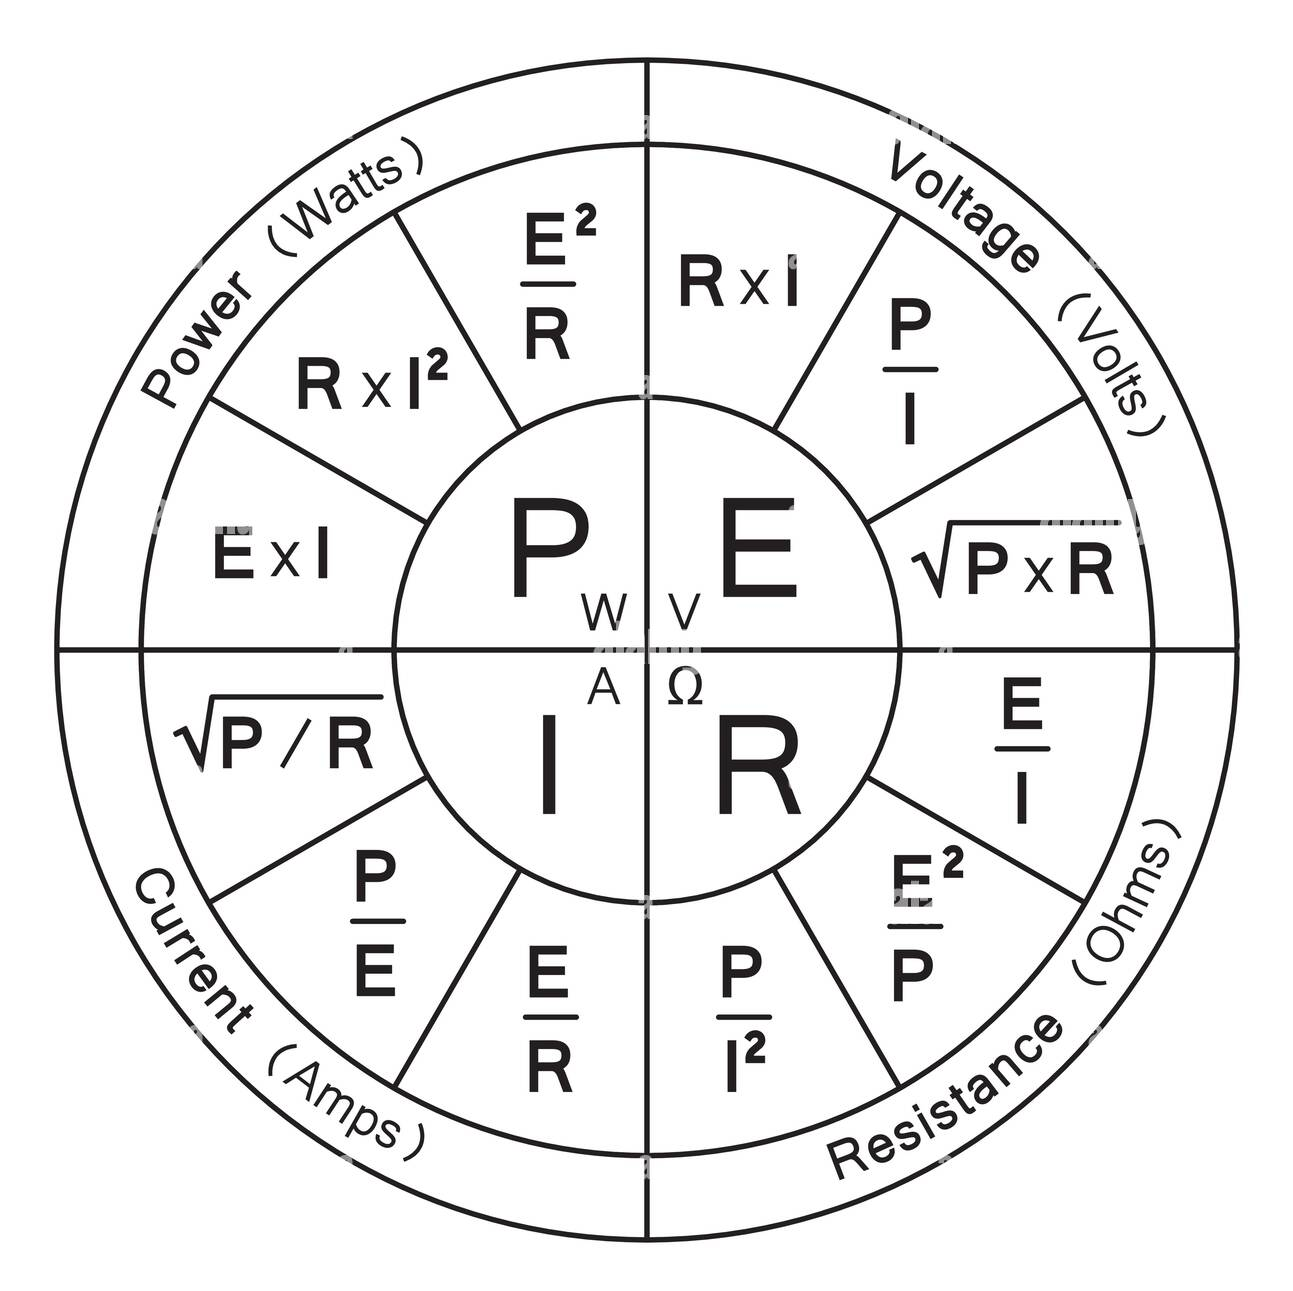
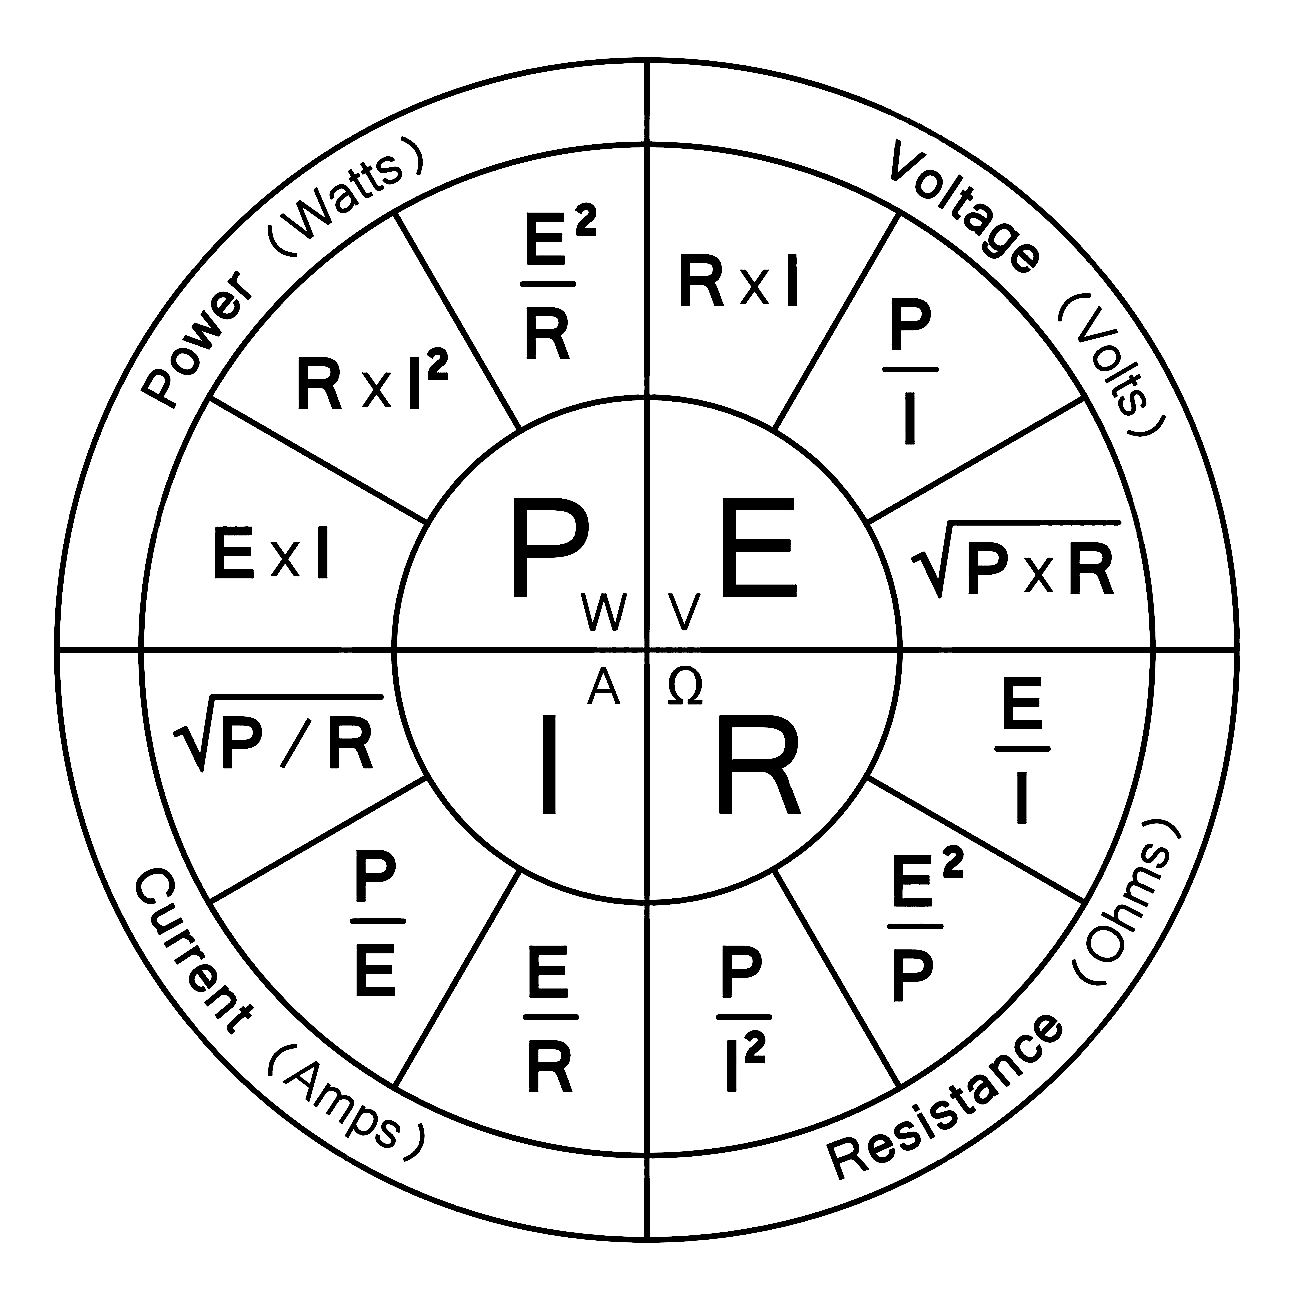
feat: add mili-units

diff --git a/dbconvert.js b/dbconvert.js
@@ -54,6 +54,66 @@ function updateLastEdited(fieldName) {
     }
 }
 
+function getBestUnit(value, field) {
+    // If value is 0, use base unit
+    if (value === 0) {
+        switch (field) {
+            case 'voltage': return 'V';
+            case 'current': return 'A';
+            case 'resistance': return 'Ω';
+            case 'power': return 'W';
+        }
+    }
+    
+    // For values >= 1000 in milli units, use base unit
+    if (Math.abs(value) >= 1000) {
+        switch (field) {
+            case 'voltage': return 'V';
+            case 'current': return 'A';
+            case 'resistance': return 'Ω';
+            case 'power': return 'W';
+        }
+    }
+    
+    // For values < 1 in base units, use milli unit
+    if (Math.abs(value) < 1) {
+        switch (field) {
+            case 'voltage': return 'mV';
+            case 'current': return 'mA';
+            case 'resistance': return 'mΩ';
+            case 'power': return 'mW';
+        }
+    }
+    
+    // For values between 1 and 1000, use base unit
+    switch (field) {
+        case 'voltage': return 'V';
+        case 'current': return 'A';
+        case 'resistance': return 'Ω';
+        case 'power': return 'W';
+    }
+}
+
+function updateFieldWithBestUnit(f, field, value) {
+    const newUnit = getBestUnit(value, field);
+    if (newUnit) {
+        const button = f[field].nextElementSibling;
+        const displayValue = newUnit.startsWith('m') ? value * 1000 : value / 1000;
+        f[field].value = pretty(displayValue);
+        button.textContent = newUnit;
+        
+        // Update the unit state
+        switch (field) {
+            case 'voltage': voltageUnit = newUnit; break;
+            case 'current': currentUnit = newUnit; break;
+            case 'resistance': resistanceUnit = newUnit; break;
+            case 'power': powerUnit = newUnit; break;
+        }
+    } else {
+        f[field].value = pretty(value);
+    }
+}
+
 function calculateFromLastEdited(f) {
     if (lastEditedFields.length < 2) return;
 
@@ -74,54 +134,79 @@ function calculateFromLastEdited(f) {
     if (field2 === 'resistance' && resistanceUnit === 'mΩ') val2 = val2 / 1000;
     if (field2 === 'power' && powerUnit === 'mW') val2 = val2 / 1000;
 
+    let result1, result2;
     switch (field1 + field2) {
         case 'voltagecurrent':
-            f.resistance.value = pretty(val1 / val2);
-            f.power.value = pretty(val1 * val2);
+            result1 = val1 / val2;  // resistance
+            result2 = val1 * val2;  // power
+            updateFieldWithBestUnit(f, 'resistance', result1);
+            updateFieldWithBestUnit(f, 'power', result2);
             break;
         case 'currentvoltage':
-            f.resistance.value = pretty(val2 / val1);
-            f.power.value = pretty(val1 * val2);
+            result1 = val2 / val1;  // resistance
+            result2 = val1 * val2;  // power
+            updateFieldWithBestUnit(f, 'resistance', result1);
+            updateFieldWithBestUnit(f, 'power', result2);
             break;
         case 'voltageresistance':
-            f.current.value = pretty(val1 / val2);
-            f.power.value = pretty((val1 * val1) / val2);
+            result1 = val1 / val2;  // current
+            result2 = (val1 * val1) / val2;  // power
+            updateFieldWithBestUnit(f, 'current', result1);
+            updateFieldWithBestUnit(f, 'power', result2);
             break;
         case 'resistancevoltage':
-            f.current.value = pretty(val2 / val1);
-            f.power.value = pretty((val2 * val2) / val1);
+            result1 = val2 / val1;  // current
+            result2 = (val2 * val2) / val1;  // power
+            updateFieldWithBestUnit(f, 'current', result1);
+            updateFieldWithBestUnit(f, 'power', result2);
             break;
         case 'voltagepower':
-            f.current.value = pretty(val2 / val1);
-            f.resistance.value = pretty((val1 * val1) / val2);
+            result1 = val2 / val1;  // current
+            result2 = (val1 * val1) / val2;  // resistance
+            updateFieldWithBestUnit(f, 'current', result1);
+            updateFieldWithBestUnit(f, 'resistance', result2);
             break;
         case 'powervoltage':
-            f.current.value = pretty(val1 / val2);
-            f.resistance.value = pretty((val2 * val2) / val1);
+            result1 = val1 / val2;  // current
+            result2 = (val2 * val2) / val1;  // resistance
+            updateFieldWithBestUnit(f, 'current', result1);
+            updateFieldWithBestUnit(f, 'resistance', result2);
             break;
         case 'currentresistance':
-            f.voltage.value = pretty(val1 * val2);
-            f.power.value = pretty(val1 * val1 * val2);
+            result1 = val1 * val2;  // voltage
+            result2 = val1 * val1 * val2;  // power
+            updateFieldWithBestUnit(f, 'voltage', result1);
+            updateFieldWithBestUnit(f, 'power', result2);
             break;
         case 'resistancecurrent':
-            f.voltage.value = pretty(val2 * val1);
-            f.power.value = pretty(val2 * val2 * val1);
+            result1 = val2 * val1;  // voltage
+            result2 = val2 * val2 * val1;  // power
+            updateFieldWithBestUnit(f, 'voltage', result1);
+            updateFieldWithBestUnit(f, 'power', result2);
             break;
         case 'currentpower':
-            f.voltage.value = pretty(val2 / val1);
-            f.resistance.value = pretty(val2 / (val1 * val1));
+            result1 = val2 / val1;  // voltage
+            result2 = val2 / (val1 * val1);  // resistance
+            updateFieldWithBestUnit(f, 'voltage', result1);
+            updateFieldWithBestUnit(f, 'resistance', result2);
             break;
         case 'powercurrent':
-            f.voltage.value = pretty(val1 / val2);
-            f.resistance.value = pretty(val1 / (val2 * val2));
+            result1 = val1 / val2;  // voltage
+            result2 = val1 / (val2 * val2);  // resistance
+            updateFieldWithBestUnit(f, 'voltage', result1);
+            updateFieldWithBestUnit(f, 'resistance', result2);
             break;
         case 'resistancepower':
-            f.voltage.value = pretty(Math.sqrt(val2 * val1));
-            f.current.value = pretty(Math.sqrt(val2 / val1));
+            result1 = Math.sqrt(val2 * val1);  // voltage
+            result2 = Math.sqrt(val2 / val1);  // current
+            updateFieldWithBestUnit(f, 'voltage', result1);
+            updateFieldWithBestUnit(f, 'current', result2);
             break;
         case 'powerresistance':
-            f.voltage.value = pretty(Math.sqrt(val1 * val2));
-            f.current.value = pretty(Math.sqrt(val1 / val2));
+            result1 = Math.sqrt(val1 * val2);  // voltage
+            result2 = Math.sqrt(val1 / val2);  // current
+            updateFieldWithBestUnit(f, 'voltage', result1);
+            updateFieldWithBestUnit(f, 'current', result2);
             break;
     }
 }
